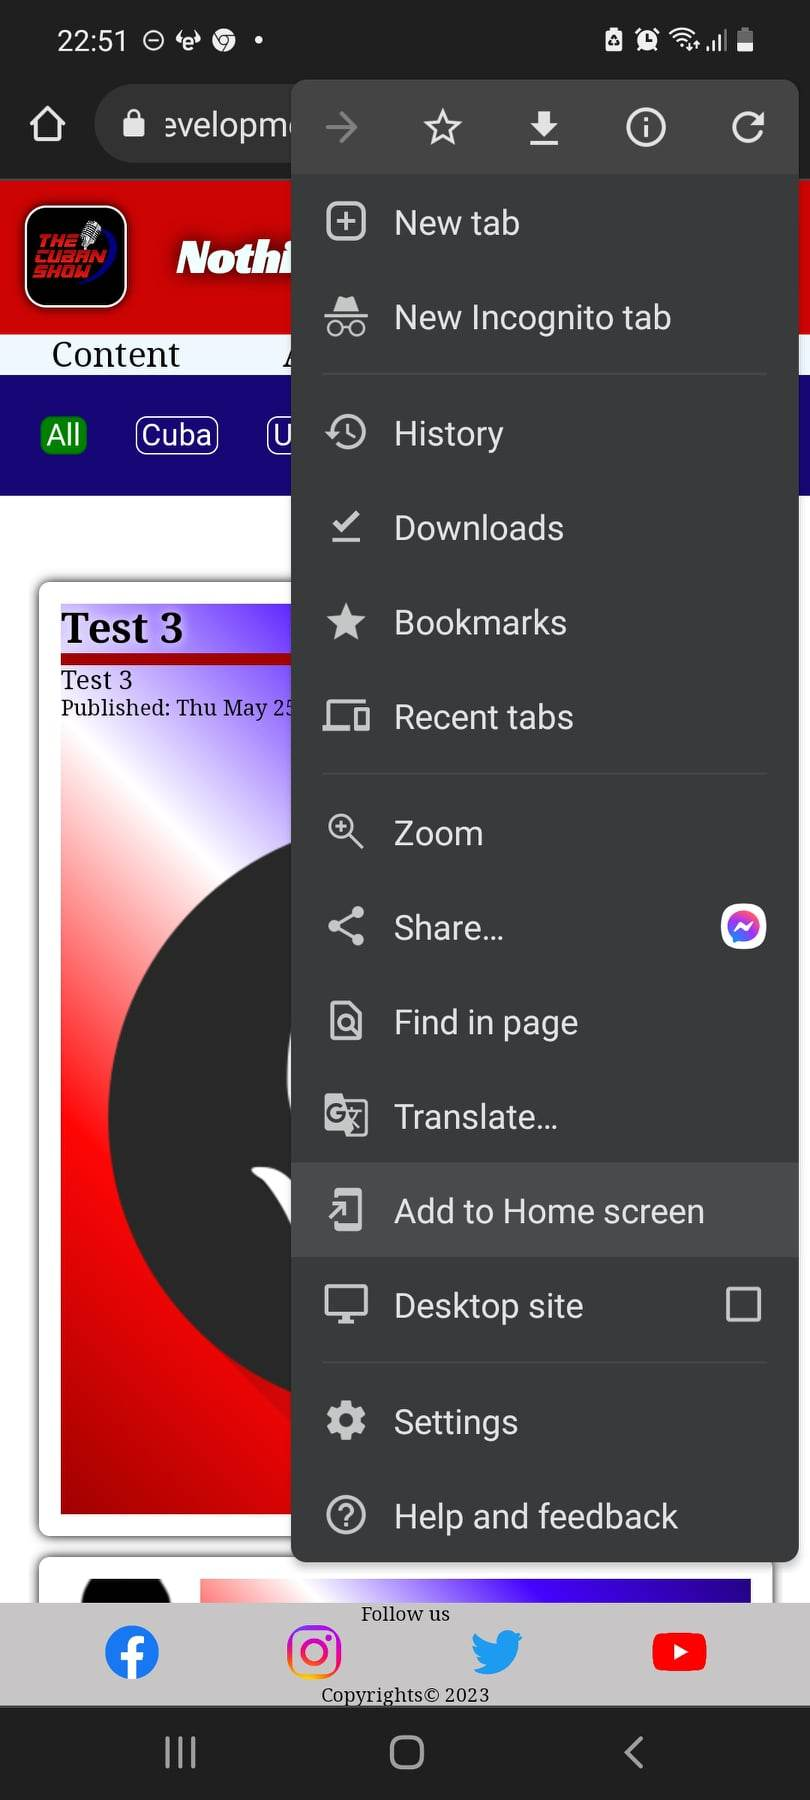
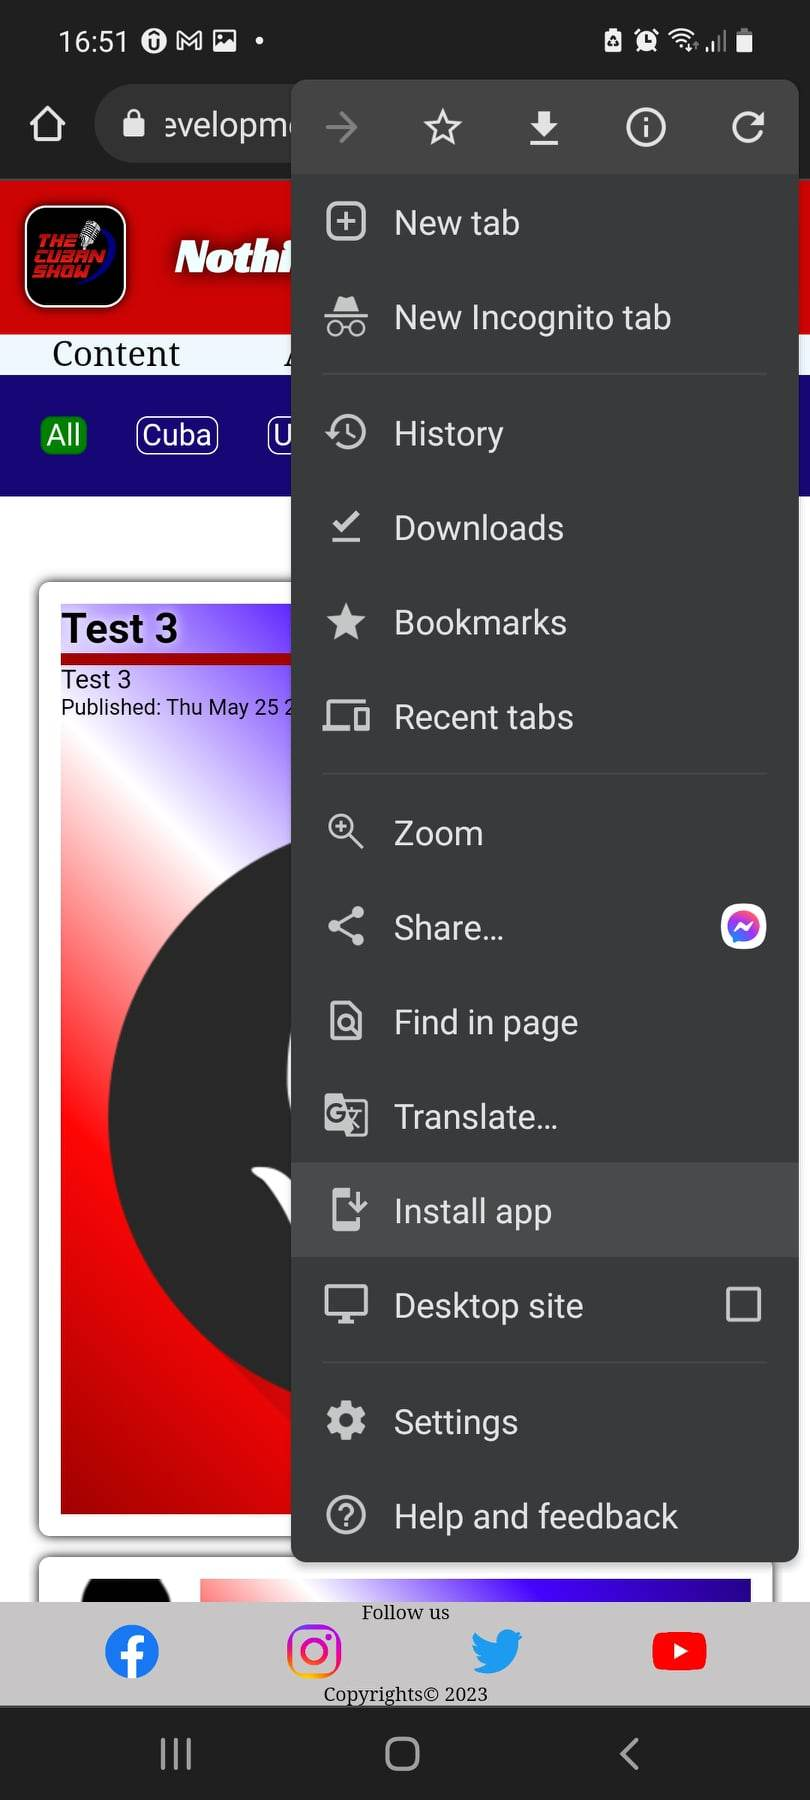
about installation

diff --git a/src/components/views/about/About.jsx b/src/components/views/about/About.jsx
@@ -6,6 +6,9 @@ import Banner from "../../UI/banner/Banner";
 import chromeTcs from "../../../assets/install-app/chorme_tcs_page.jpg";
 import zoom from "../../../assets/install-app/chrome_tcs_zoom.jpg";
 import settings from "../../../assets/install-app/chrome_tcs_settings.jpg";
+import modal from "../../../assets/install-app/chrome-confirm-modal.jpg"
+import toHomeSc from "../../../assets/install-app/phone-installed-app.jpg"
+import complete from "../../../assets/install-app/phone-added-to-home-app.jpg"
 
 export default function About() {
   return (
@@ -37,9 +40,9 @@ export default function About() {
       </p>
       <h4 className={style.installingTitle}>Installing the App in your mobile</h4>
 
-      <ol>
+      <ol className={style.list}>
         <li>
-          open the link of this app in your mobilephone with Google Chrome.
+          1. Open the link of this app in your mobilephone with Google Chrome.
         </li>
         <a href={chromeTcs} target="_blank" rel="noreferrer">
           <img
@@ -49,12 +52,13 @@ export default function About() {
           />
         </a>
         <li>
-          Click the settings in the right upper corner of the Chrome browser
+          2. Click the settings in the right upper corner of the Chrome browser
         </li>
         <a href={zoom} target="_blank" rel="noreferrer">
           <img src={zoom} alt="chrome settings" className={style.installImg} />
         </a>
-        <li>Select "Add to home screen" & accept the suggested name</li>
+        <li>
+          3. Select "install App". Notice that sometimes appears as "Add to home screen"</li>
         <a href={settings} target="_blank" rel="noreferrer">
           <img
             src={settings}
@@ -62,7 +66,30 @@ export default function About() {
             className={style.installImg}
           />
         </a>
+        <li>4. Install or accept the suggested name in the popup modal</li>
+        <a href={modal} target="_blank" rel="noreferrer">
+          <img
+            src={modal}
+            alt="chrome settings"
+            className={style.installImg}
+          />
+        </a>
+        <li>5. (Optional) Add the app to the mobile home screen </li>
+        <a href={toHomeSc} target="_blank" rel="noreferrer">
+          <img
+            src={toHomeSc}
+            alt="chrome settings"
+            className={style.installImg}
+          />
+        </a>
         <li>Enjoy the App from your mobile!</li>
+        <a href={complete} target="_blank" rel="noreferrer">
+          <img
+            src={complete}
+            alt="chrome settings"
+            className={style.installImg}
+          />
+        </a>
       </ol>
     </div>
   );

diff --git a/src/components/views/about/styleAbout.module.css b/src/components/views/about/styleAbout.module.css
@@ -7,7 +7,15 @@
     font-size: 1.5rem;
     font-weight: 700;
     margin-bottom: 10px;
+    text-align: center;
 }
 .installImg{
     width: 200px;
+}
+
+.list{
+    display: flex;
+    flex-direction: column;
+    align-items: center;
+    text-align: center;
 }
